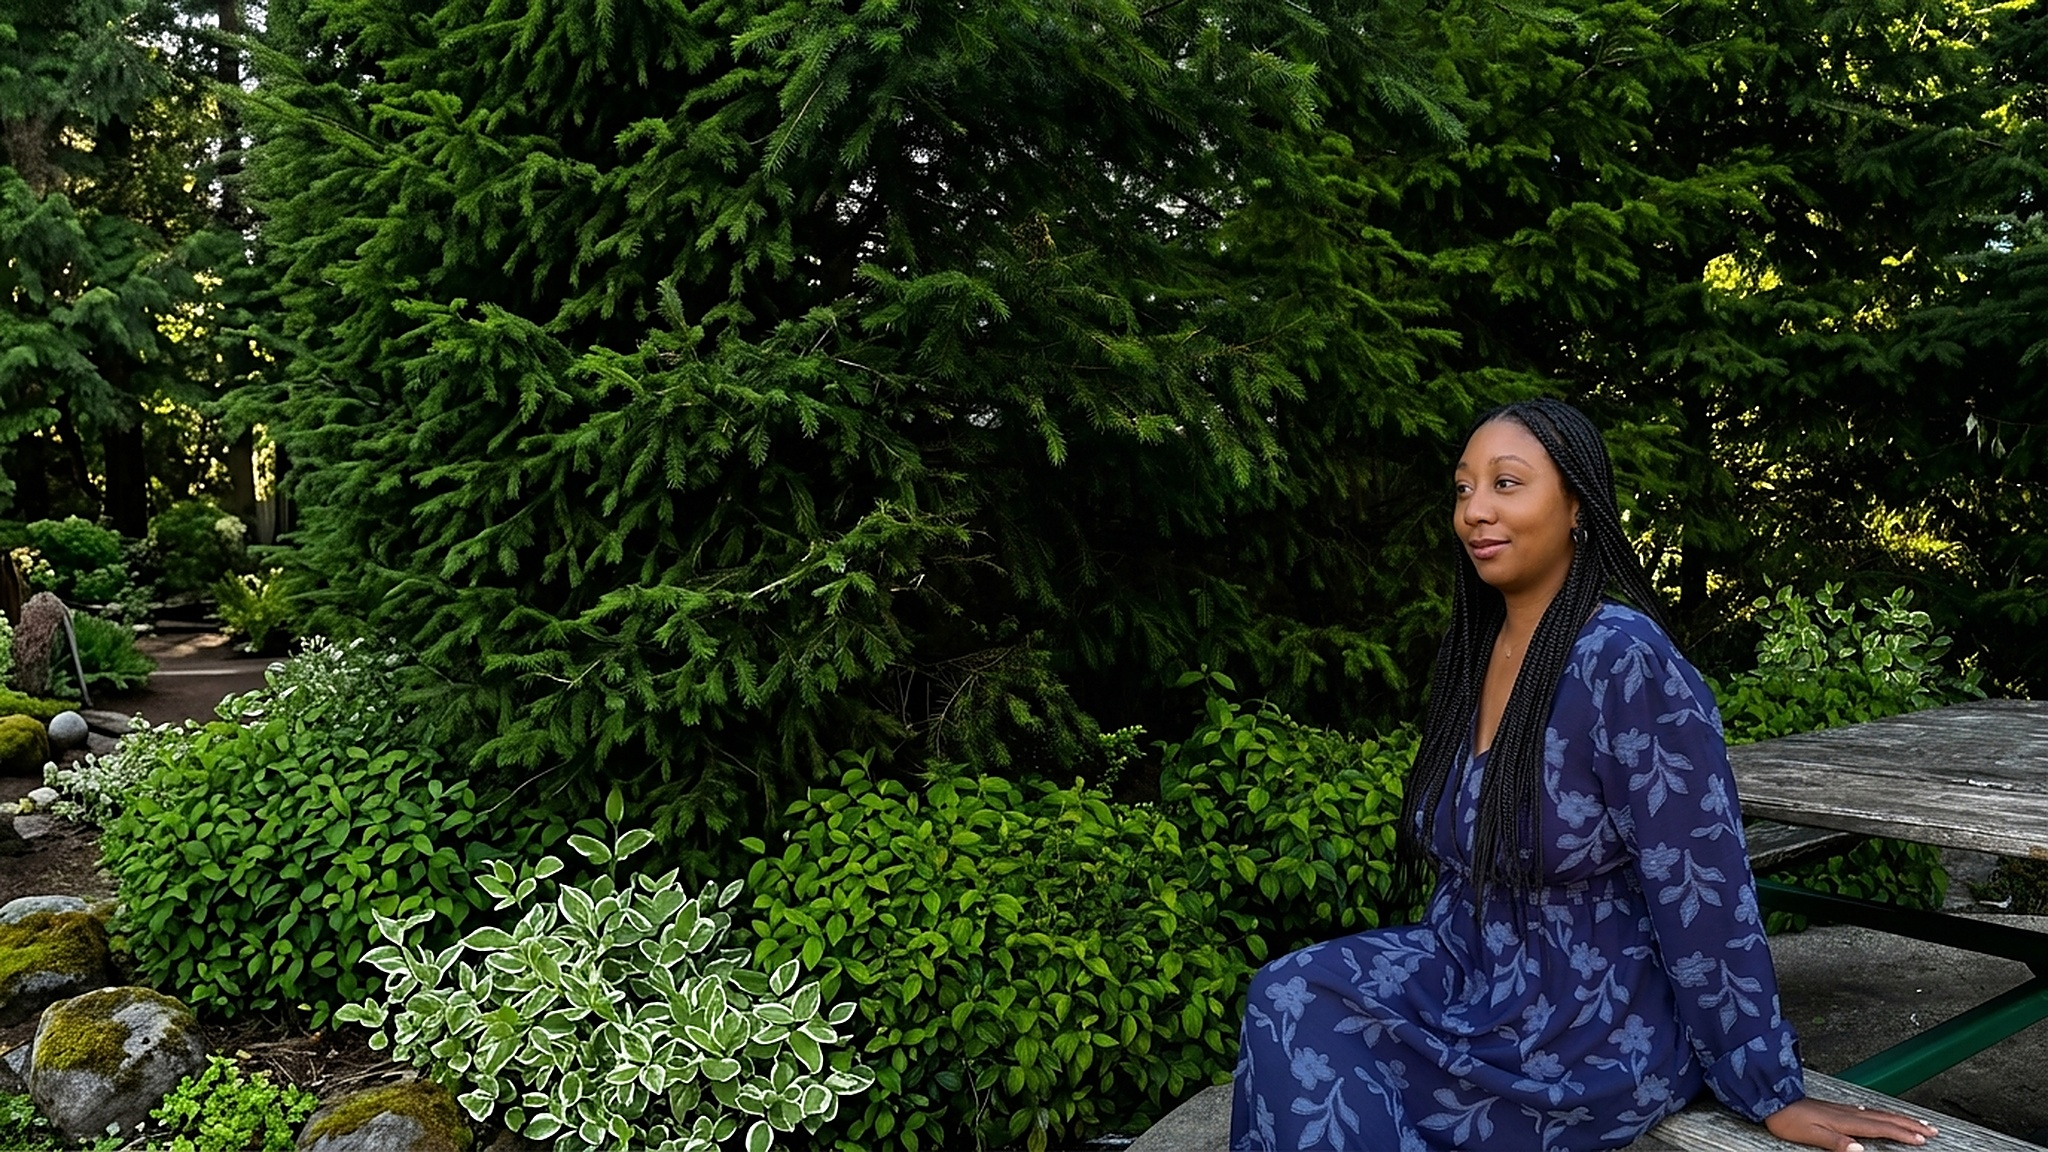
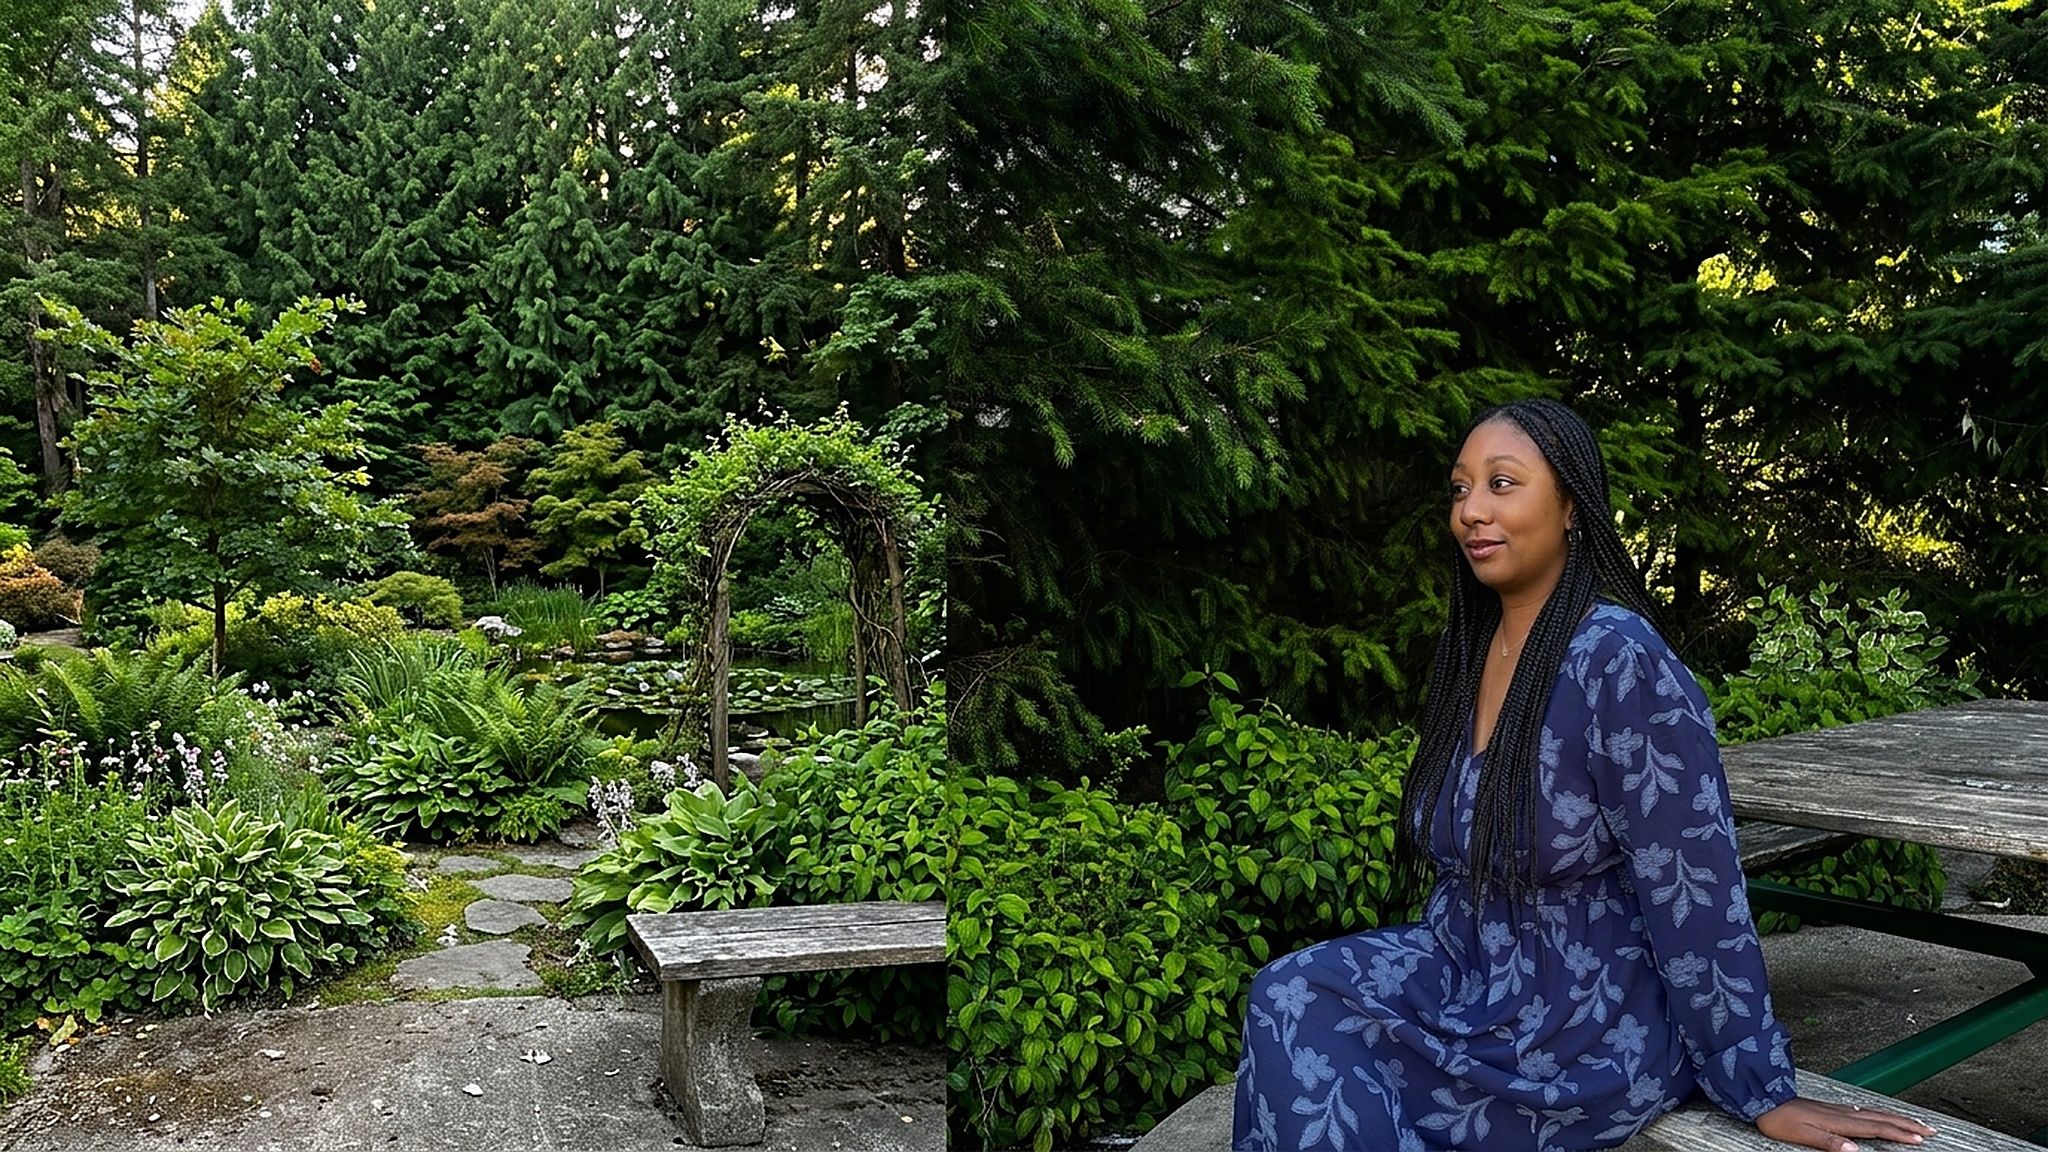
Replace author photo with Dani_website_final, convert HEIC to JPEG, outpaint left side, and increment cache buster to v=4

diff --git a/index.html b/index.html
@@ -439,7 +439,7 @@
 
         <!-- Hero: photo + quote card -->
         <div class="about-hero">
-            <img src="danielle.jpg?v=3" alt="Danielle Niyotwagira" class="about-photo">
+            <img src="danielle.jpg?v=4" alt="Danielle Niyotwagira" class="about-photo">
             <div class="quote-card">
                 <p class="quote-card-body">
                     <span class="open-mark">"</span>How foolish can you be? After starting your